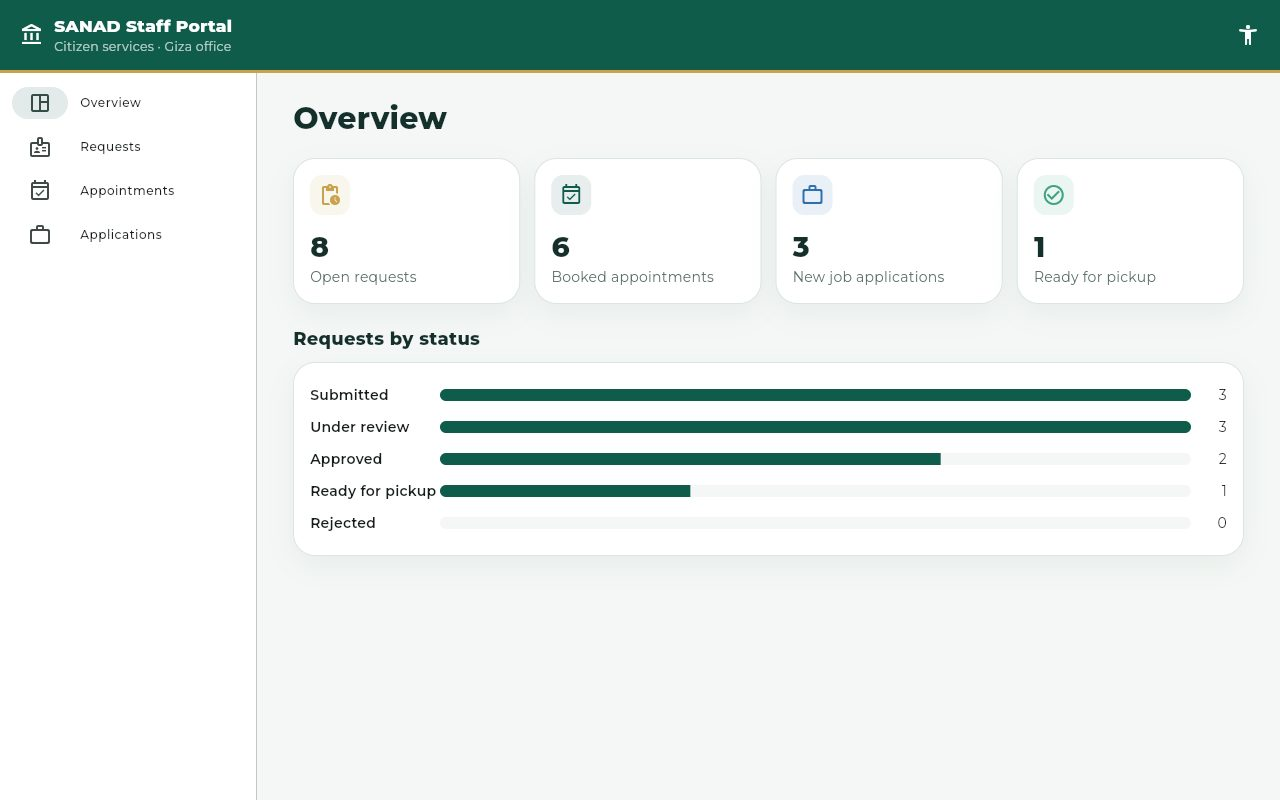
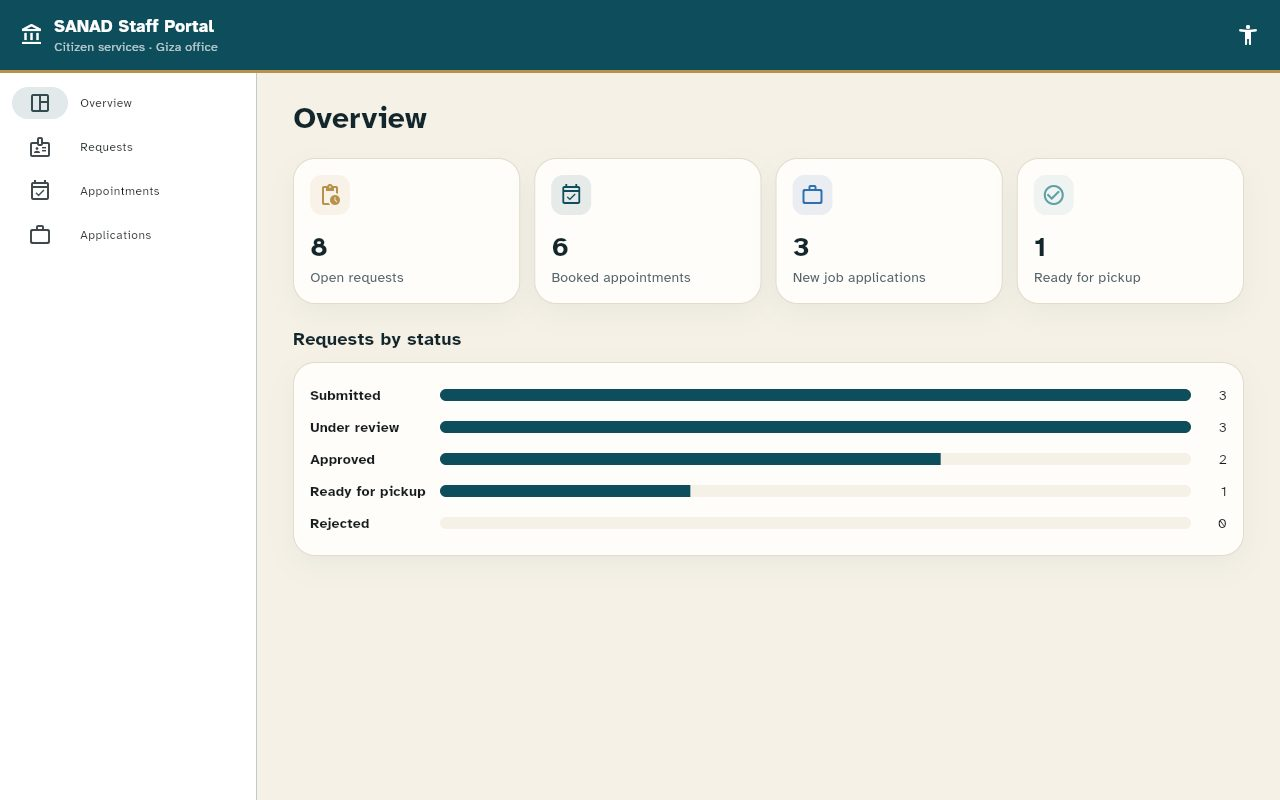
Landing page, screenshots and brand guide for the redesign

diff --git a/site/index.html b/site/index.html
@@ -7,12 +7,13 @@
 <title>SANAD</title>
 <meta name="description" content="SANAD is an accessible public-services app for people with disabilities in Egypt, with a staff portal.">
 <link rel="preconnect" href="https://fonts.googleapis.com">
-<link href="https://fonts.googleapis.com/css2?family=Plus+Jakarta+Sans:wght@400;600;800&display=swap" rel="stylesheet">
+<link rel="preconnect" href="https://fonts.gstatic.com" crossorigin>
+<link href="https://fonts.googleapis.com/css2?family=Atkinson+Hyperlegible:wght@400;700&display=swap" rel="stylesheet">
 <style>
-:root{--on-brand:#fff;--brand:#0F5C4A;--brand-soft:#E2EFEB;--coral:#FF6B57;--ink:#13201E;--muted:#5B6B68;--bg:#F6F7F5;--card:#fff;--line:#E4E8E6}
-@media (prefers-color-scheme:dark){:root{--on-brand:#0F1417;--brand:#5CC4A6;--brand-soft:#14302A;--ink:#EAF2F0;--muted:#9AB0AB;--bg:#0F1417;--card:#182025;--line:#25313A}}
+:root{--on-brand:#fff;--brand:#0E4E5C;--brand-soft:#E3EEF0;--coral:#B8924A;--ink:#13262C;--muted:#52646A;--bg:#F6F1E7;--card:#FFFDF9;--line:#E4DBCB}
+@media (prefers-color-scheme:dark){:root{--on-brand:#0D1A1E;--brand:#7FC0CC;--brand-soft:#16303A;--coral:#D9B575;--ink:#EEF3F3;--muted:#A9B8BB;--bg:#0D1A1E;--card:#15262C;--line:#243A42}}
 *{box-sizing:border-box;margin:0}
-body{font-family:"Plus Jakarta Sans",system-ui,sans-serif;background:var(--bg);color:var(--ink);line-height:1.6}
+body{font-family:"Atkinson Hyperlegible",system-ui,sans-serif;background:var(--bg);color:var(--ink);line-height:1.6}
 a{color:inherit}
 .wrap{max-width:1120px;margin:0 auto;padding:0 20px}
 nav{display:flex;align-items:center;justify-content:space-between;padding:20px 0}
@@ -30,13 +31,13 @@ h1{font-size:clamp(36px,6vw,60px);line-height:1.05;letter-spacing:-.03em;margin-
 h1 em{font-style:normal;color:var(--brand)}
 .lead{font-size:18px;color:var(--muted);max-width:520px;margin-bottom:28px}
 .ctas{display:flex;gap:12px;flex-wrap:wrap}
-.phone{justify-self:center;width:330px;height:660px;border-radius:44px;background:#0b0f10;padding:12px;box-shadow:0 30px 80px -20px rgba(15,138,122,.45)}
+.phone{justify-self:center;width:330px;height:660px;border-radius:44px;background:#13262C;padding:12px;box-shadow:0 30px 60px -30px rgba(19,38,44,.45)}
 .phone iframe{width:100%;height:100%;border:0;border-radius:34px;background:#fff}
 section{padding:72px 0}
 h2{font-size:clamp(28px,4vw,40px);letter-spacing:-.02em;margin-bottom:12px}
 .sub{color:var(--muted);max-width:620px;margin-bottom:36px}
 .grid{display:grid;grid-template-columns:repeat(3,1fr);gap:16px}
-.card{background:var(--card);border:1px solid var(--line);border-radius:22px;padding:24px}
+border-top:4px solid var(--brand);border-radius:12px;padding:24px}
 .card .ic{font-size:26px;margin-bottom:10px}
 .card h3{font-size:18px;margin-bottom:6px}
 .card p{color:var(--muted);font-size:15px}
@@ -62,7 +63,7 @@ footer{padding:32px 0;color:var(--muted);font-size:14px;display:flex;justify-con
 <body>
 <div class="wrap">
   <nav>
-    <a class="logo" href="./"><span>🤝</span>SANAD</a>
+    <a class="logo" href="./"><span aria-hidden="true">س</span>SANAD</a>
     <div class="links"><a href="#features">Features</a><a href="#dashboard">Staff portal</a><a href="#tech">Tech</a><a href="https://github.com/EyadOraby/grad">GitHub</a></div>
   </nav>
   <header class="hero">
@@ -71,30 +72,30 @@ footer{padding:32px 0;color:var(--muted);font-size:14px;display:flex;justify-con
       <h1>Public services, <em>without the queue.</em></h1>
       <p class="lead">SANAD puts government paperwork, medical bookings and job applications in one app built for people with disabilities. Staff handle every request from a portal, and citizens follow it from submitted to ready.</p>
       <div class="ctas">
-        <a class="btn primary" href="app/?demo=1">Open the live demo →</a>
+        <a class="btn primary" href="app/?demo=1">Open the live demo</a>
         <a class="btn ghost" href="app/?demo=1&amp;screen=staff">Staff portal</a>
-        <a class="btn ghost" href="https://github.com/EyadOraby/grad/releases/download/android/sanad.apk">⬇ Android app</a>
+        <a class="btn ghost" href="https://github.com/EyadOraby/grad/releases/download/android/sanad.apk">Android app</a>
       </div>
     </div>
-    <div class="phone live" data-src="app/?demo=1" data-title="SANAD app"><img src="img/phone.jpg" alt="SANAD app screenshot"><button type="button">▶ Try it live here</button></div>
+    <div class="phone live" data-src="app/?demo=1" data-title="SANAD app"><img src="img/phone.jpg" alt="SANAD app screenshot"><button type="button">Try it live here</button></div>
   </header>
 </div>
 <section id="features"><div class="wrap">
   <h2>Everything in one place</h2>
   <p class="sub">Each request gets a reference number and a clear status, so nobody has to call to ask where it is.</p>
   <div class="grid">
-    <div class="card"><div class="ic">🪪</div><h3>Government services</h3><p>Renew a national ID or apply for an integrated services card, then follow it to pickup.</p></div>
-    <div class="card"><div class="ic">🩺</div><h3>Medical bookings</h3><p>Doctors, hospitals, radiology and physiotherapy centres, with real time slots and cancellation.</p></div>
-    <div class="card"><div class="ic">💼</div><h3>Jobs</h3><p>Apply once per job and see when you are shortlisted or invited to interview.</p></div>
-    <div class="card"><div class="ic">♿</div><h3>Accessibility</h3><p>Text up to 160%, high contrast, bold text, reduced motion and screen-reader labels everywhere.</p></div>
-    <div class="card"><div class="ic">📋</div><h3>Activity</h3><p>Appointments, requests and applications together, each with its live status.</p></div>
-    <div class="card"><div class="ic">🏢</div><h3>Staff portal</h3><p>A queue to review and approve requests, mark appointments attended and answer applicants.</p></div>
+    <div class="card"><h3>Government services</h3><p>Renew a national ID or apply for an integrated services card, then follow it to pickup.</p></div>
+    <div class="card"><h3>Medical bookings</h3><p>Doctors, hospitals, radiology and physiotherapy centres, with real time slots and cancellation.</p></div>
+    <div class="card"><h3>Jobs</h3><p>Apply once per job and see when you are shortlisted or invited to interview.</p></div>
+    <div class="card"><h3>Accessibility</h3><p>Text up to 160%, high contrast, bold text, reduced motion and screen-reader labels everywhere.</p></div>
+    <div class="card"><h3>Activity</h3><p>Appointments, requests and applications together, each with its live status.</p></div>
+    <div class="card"><h3>Staff portal</h3><p>A queue to review and approve requests, mark appointments attended and answer applicants.</p></div>
   </div>
 </div></section>
 <section id="dashboard"><div class="wrap">
   <h2>A portal for the staff</h2>
   <p class="sub">Open requests, booked appointments and new applications at a glance, with every action a citizen sees reflected in their activity.</p>
-  <div class="browser"><div class="bar"><i></i><i></i><i></i></div><div class="live shot" data-src="app/?demo=1&amp;screen=staff" data-title="SANAD staff portal"><img src="img/dashboard.jpg" alt="SANAD staff portal screenshot"><button type="button">▶ Open it live here</button></div></div>
+  <div class="browser"><div class="bar"><i></i><i></i><i></i></div><div class="live shot" data-src="app/?demo=1&amp;screen=staff" data-title="SANAD staff portal"><img src="img/dashboard.jpg" alt="SANAD staff portal screenshot"><button type="button">Open it live here</button></div></div>
 </div></section>
 <section id="tech"><div class="wrap">
   <h2>How it's built</h2>

diff --git a/docs/BRAND.md b/docs/BRAND.md
@@ -1,0 +1,36 @@
+# Brand
+
+**SANAD** (سند, "support"). Public services for people with disabilities in Egypt.
+
+## Personality
+
+Calm and civic. Clear before clever: it should feel like a well-run public office that treats everyone with patience.
+
+## Colour
+
+| Name | Hex | Use |
+|---|---|---|
+| Deep teal | `#0E4E5C` | Primary actions, headers, the wordmark |
+| Teal soft | `#2E7180` | Secondary shapes in emblems |
+| Muted gold | `#B8924A` | Small accents only |
+| Sand | `#F6F1E7` | Page background |
+| Card | `#FFFDF9` | Cards, with `#E4DBCB` borders |
+| Ink | `#13262C` | Text |
+
+Every text colour pair meets WCAG AA (4.5:1), and the high-contrast setting in Accessibility switches to black on white.
+
+## Type
+
+**Atkinson Hyperlegible**, designed by the Braille Institute for readers with low vision, with **Noto Sans Arabic** for Arabic. Both are SIL Open Font License, bundled in `assets/fonts`. The text-size setting scales everything.
+
+## Illustration
+
+Geometric emblems drawn in code (`lib/views/widgets/civic_emblem.dart`): circles, rectangles and arches in teal and gold on a sand disc, with no outlines, gradients or stock art. There are emblems for government, medical, jobs, doctors, hospitals, radiology, physiotherapy, ID cards, applications and the voice assistant.
+
+## Wordmark
+
+A teal tile with the Arabic letter س beside "SANAD" (or سند in Arabic) in wide-tracked Atkinson Bold.
+
+## Avoid
+
+Isometric stock illustrations, bright greens, playful motion and decorative fonts.

diff --git a/README.md b/README.md
@@ -4,6 +4,8 @@
 
 **Try it in the browser:** [eyadoraby.github.io/grad](https://eyadoraby.github.io/grad/) · [with demo activity](https://eyadoraby.github.io/grad/?demo=1&screen=activity) · [staff portal](https://eyadoraby.github.io/grad/?demo=1&screen=staff)
 
+Redesigned in November 2026 in a calm civic style: deep teal and sand, Atkinson Hyperlegible (built for low-vision readers) and geometric emblems drawn in code. See [docs/BRAND.md](docs/BRAND.md).
+
 | Home | Medical services | Staff portal |
 |---|---|---|
 | ![Home](docs/screenshots/sanad-home.png) | ![Medical services](docs/screenshots/sanad-medical.png) | ![Staff portal](docs/screenshots/sanad-staff.jpg) |
